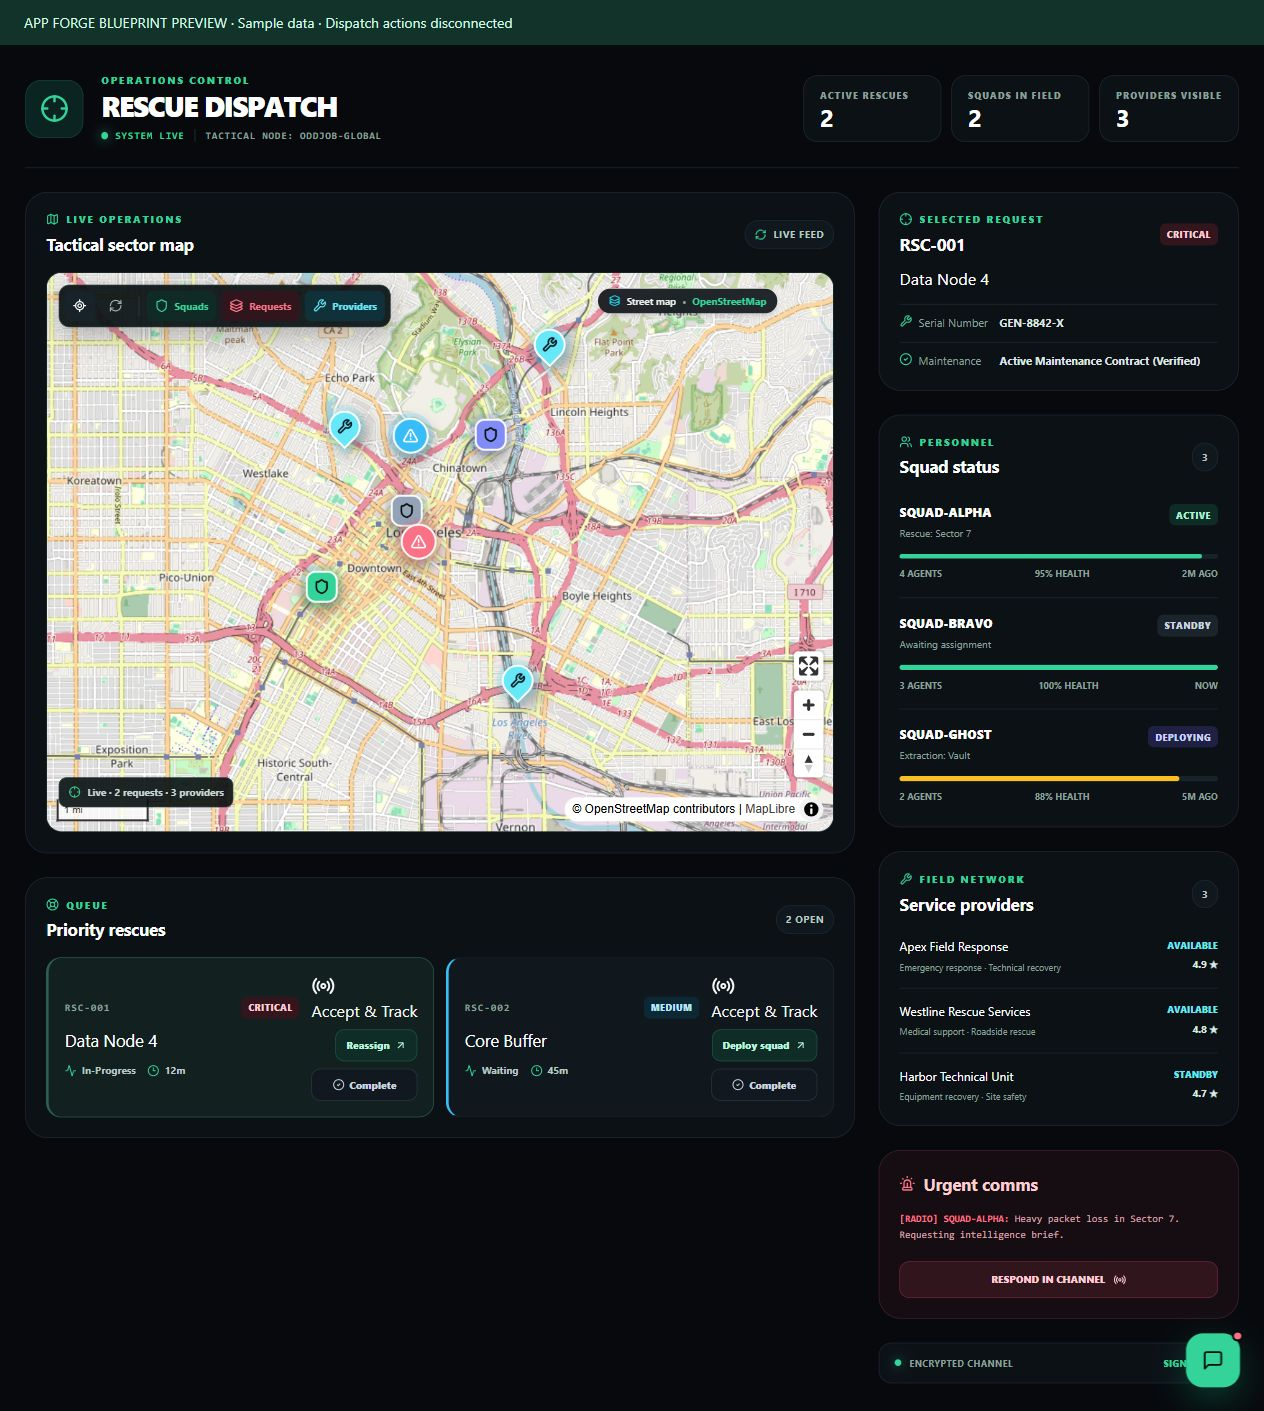
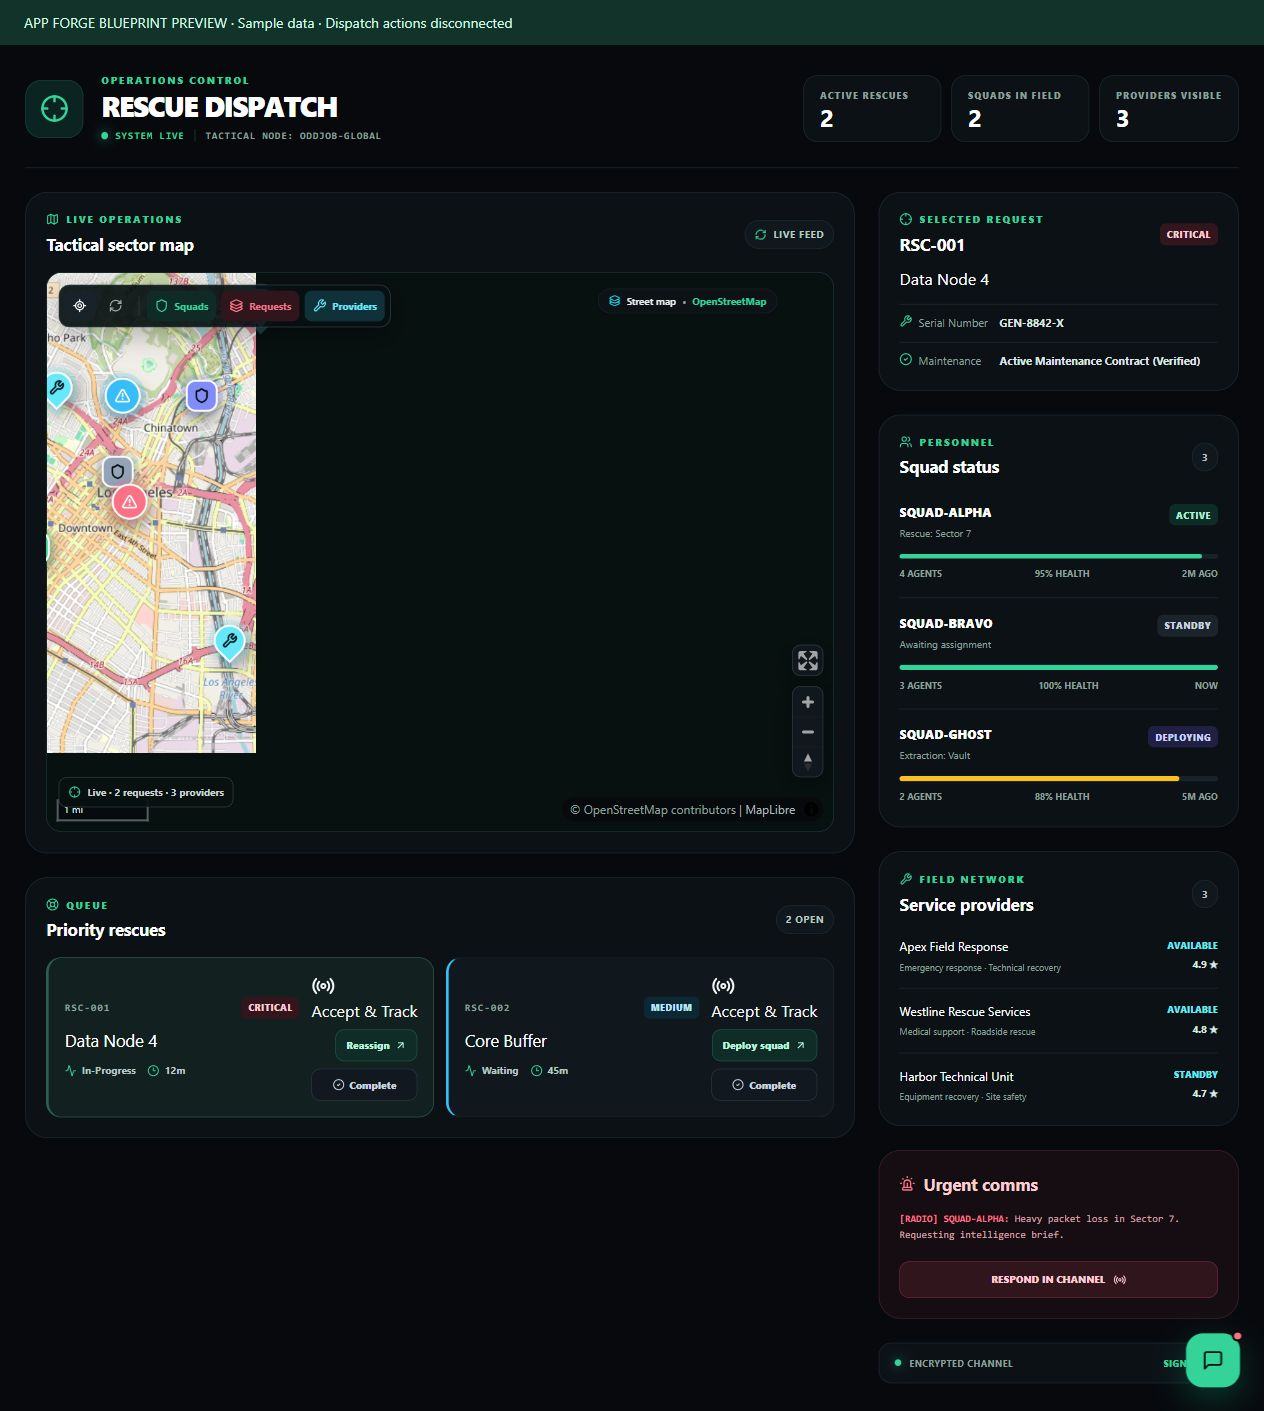
Match Rescue Dispatch controls to MapLibre renderer

Changed region(s): [[0.0309, 0.1871, 0.6788, 0.5925]]

diff --git a/server/blueprints/apps/rescue-dispatch/styles/globals.css b/server/blueprints/apps/rescue-dispatch/styles/globals.css
@@ -173,13 +173,13 @@ button { cursor: pointer; }
 
 .map-stage { height: clamp(400px, 52vh, 560px); min-height: 400px; overflow: hidden; border: 1px solid var(--line-strong); border-radius: 16px; background: #07110f; }
 .tactical-map { position: relative; width: 100%; height: 100%; overflow: hidden; background: #07110f; }
-.tactical-map .mapboxgl-map { font-family: inherit; }
-.tactical-map .mapboxgl-canvas { outline: none; }
-.tactical-map .mapboxgl-ctrl-group { overflow: hidden; background: #10171d; border: 1px solid #304047; border-radius: 9px; box-shadow: 0 8px 28px rgba(0,0,0,.34); }
-.tactical-map .mapboxgl-ctrl button { width: 30px; height: 30px; filter: invert(1); opacity: .78; }
-.tactical-map .mapboxgl-ctrl-scale { color: #d9e5e1; background: rgba(7,9,13,.82); border-color: #52605f; }
-.tactical-map .mapboxgl-ctrl-attrib { color: #91a19f; background: rgba(7,9,13,.8); }
-.tactical-map .mapboxgl-ctrl-attrib a { color: #a9b9b5; }
+.tactical-map .maplibregl-map { font-family: inherit; }
+.tactical-map .maplibregl-canvas { outline: none; }
+.tactical-map .maplibregl-ctrl-group { overflow: hidden; background: #10171d; border: 1px solid #304047; border-radius: 9px; box-shadow: 0 8px 28px rgba(0,0,0,.34); }
+.tactical-map .maplibregl-ctrl button { width: 30px; height: 30px; filter: invert(1); opacity: .78; }
+.tactical-map .maplibregl-ctrl-scale { color: #d9e5e1; background: rgba(7,9,13,.82); border-color: #52605f; }
+.tactical-map .maplibregl-ctrl-attrib { color: #91a19f; background: rgba(7,9,13,.8); }
+.tactical-map .maplibregl-ctrl-attrib a { color: #a9b9b5; }
 .map-loading, .map-fallback {
   position: absolute;
   inset: 0;
@@ -238,13 +238,13 @@ button { cursor: pointer; }
 .map-marker-provider { --marker-color: #67e8f9; color: #06202a; border-radius: 999px 999px 999px 5px; transform: rotate(-45deg); }
 .map-marker-provider:hover, .map-marker-provider:focus-visible { transform: rotate(-45deg) scale(1.12); }
 .map-marker-provider svg { transform: rotate(45deg); }
-.tactical-popup .mapboxgl-popup-content { min-width: 210px; padding: 14px; color: #f2f7f5 !important; background: #0b1115 !important; border: 1px solid #35474f; border-radius: 12px; box-shadow: 0 18px 48px rgba(0,0,0,.5); }
-.tactical-popup .mapboxgl-popup-content * { color: #f2f7f5 !important; }
-.tactical-popup .mapboxgl-popup-content strong { color: #ffffff !important; }
-.tactical-popup .mapboxgl-popup-content dt { color: #8ba09c !important; }
-.tactical-popup .mapboxgl-popup-content dd { color: #e4ecea !important; }
-.tactical-popup .mapboxgl-popup-tip { border-top-color: #35474f; }
-.tactical-popup .mapboxgl-popup-close-button { width: 26px; height: 26px; color: #a7b5b2 !important; font-size: 18px; }
+.tactical-popup .maplibregl-popup-content { min-width: 210px; padding: 14px; color: #f2f7f5 !important; background: #0b1115 !important; border: 1px solid #35474f; border-radius: 12px; box-shadow: 0 18px 48px rgba(0,0,0,.5); }
+.tactical-popup .maplibregl-popup-content * { color: #f2f7f5 !important; }
+.tactical-popup .maplibregl-popup-content strong { color: #ffffff !important; }
+.tactical-popup .maplibregl-popup-content dt { color: #8ba09c !important; }
+.tactical-popup .maplibregl-popup-content dd { color: #e4ecea !important; }
+.tactical-popup .maplibregl-popup-tip { border-top-color: #35474f; }
+.tactical-popup .maplibregl-popup-close-button { width: 26px; height: 26px; color: #a7b5b2 !important; font-size: 18px; }
 .popup-heading { display: flex; align-items: center; gap: 7px; color: #34d399 !important; font-size: 11px; font-weight: 850; letter-spacing: .06em; }
 .popup-heading.rescue { color: #fb7185 !important; }
 .popup-heading.provider { color: #67e8f9 !important; }
@@ -371,7 +371,7 @@ button { cursor: pointer; }
   .map-marker-rescue { width: 46px; height: 46px; }
   .map-marker-provider { width: 44px; height: 44px; }
   .map-tool { min-width: 44px; height: 44px; }
-  .tactical-map .mapboxgl-ctrl button { width: 44px; height: 44px; }
+  .tactical-map .maplibregl-ctrl button { width: 44px; height: 44px; }
   .map-layer span { display: none; }
   .rescue-card { grid-template-columns: 1fr; }
   .rescue-actions { flex-direction: row; }
